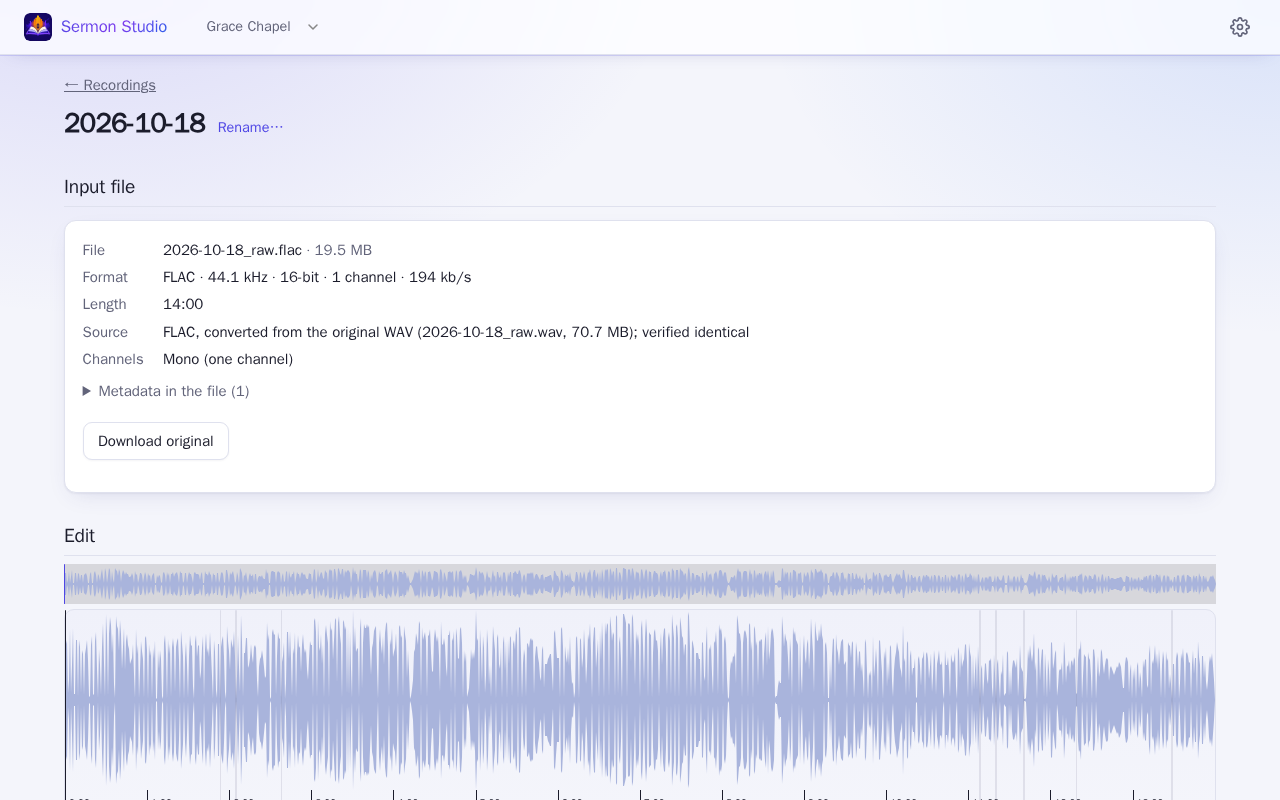
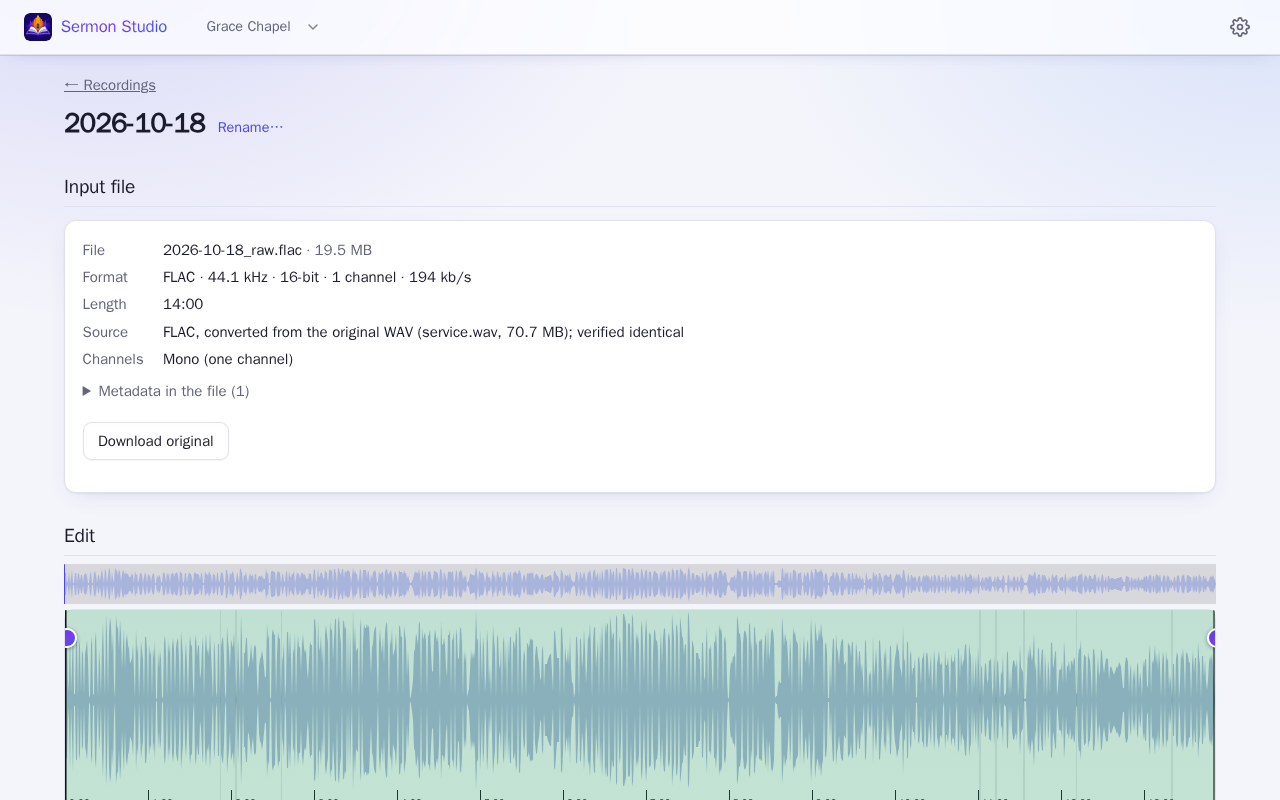
A recording not cut yet opens with the sermon set to all of it but the silence at the ends (#29)
* A recording not cut yet opens with the sermon set to all of it but the silence at the ends

The editor used to open an uncut recording with nothing selected. Now the one
section is there from the start: from the end of the silence at the beginning
of the recording to the start of the silence at its end (or the whole recording
when there is none). It is only a start: nothing is kept in recording.json
until something is changed, and Save right away saves it as it is. The hint
under the Sermon buttons says what it is until then.

Tests: a fixture with silence before and after a minute of speech; the browser
tests clear the start so they make their own sections; the phone test shows it.
The guide's first editor picture shows it too.

* Any change adopts the start the page made, so it is kept from then on

A change that left the section as it was (adding one over it) cleared the
start without keeping it, so Save had nothing to save. Now any change, and
Save, adopt it: the next keep sends it whatever it looks like.

The browser tests scroll back to the top after removing the start: the click
scrolls, and the mouse drags on the waveform need it on screen.

---------

Changed region(s): [[0.0312, 0.75, 0.9688, 1.0], [0.3125, 0.4062, 0.5938, 0.4375]]

diff --git a/web/e2e/tests/web.spec.js b/web/e2e/tests/web.spec.js
@@ -17,12 +17,25 @@ function forget(folder) {
 }
 
 // openEditor opens a date folder and waits until the waveform is ready. The
-// saved sections and cuts of an earlier test are forgotten, unless keep is set.
+// saved sections and cuts of an earlier test are forgotten, unless keep is set,
+// and the section the editor starts an uncut recording with is removed: the tests make their own.
 async function openEditor(page, folder, { timeout = 60_000, keep = false } = {}) {
   if (!keep) forget(folder);
   await page.goto('#/folder/' + folder);
   await expect(page.locator('#waveform')).toBeVisible({ timeout });
   await page.waitForFunction(() => window.__editor && window.__editor.ws.getDuration() > 0, null, { timeout });
+  if (!keep) await clearProposed(page, timeout);
+}
+
+// sectionHint is the line under the Sermon buttons; it is set once the waveform is ready.
+const sectionHint = (page) => page.locator('.section-hint');
+async function clearProposed(page, timeout = 60_000) {
+  await expect(sectionHint(page)).not.toHaveText('', { timeout });
+  if ((await sectionHint(page).textContent()).startsWith('The sermon is set to')) {
+    await page.locator('.section').getByRole('button', { name: 'Remove' }).click();
+    await expect(sectionHint(page)).toContainText('Drag on the waveform to select the sermon');
+    await page.evaluate(() => window.scrollTo(0, 0)); // the click scrolled; the waveform must be on screen for the mouse
+  }
 }
 
 const editor = (page, fn, arg) => page.evaluate(fn, arg);
@@ -346,6 +359,49 @@ test('recording.json keeps the adjustments; Save makes them the saved version, R
   await expect(fadeKnob(page, 'fadeIn')).toHaveAttribute('aria-valuenow', '2');
   expect(read().adjusted).toBeNull();
   await expect(page.getByRole('button', { name: 'Revert…' })).toBeDisabled();
+});
+
+test('a recording not cut yet starts with the sermon set to all of it but the silence at the ends', async ({ page }) => {
+  const folder = '2026/2026-06-14'; // a minute: silence, speech from 3 to 56 s, silence
+  const file = path.join(DATA, 'root', folder, 'recording.json');
+  const read = () => (fs.existsSync(file) ? JSON.parse(fs.readFileSync(file, 'utf8')) : {});
+  forget(folder);
+  await page.goto('#/folder/' + folder);
+  await expect(page.locator('#waveform')).toBeVisible({ timeout: 60_000 });
+  await expect(sectionHint(page)).toContainText('The sermon is set to the recording without the silence at its start and end.', { timeout: 60_000 });
+  const start = await selection(page);
+  expect(start.start).toBeGreaterThan(2.5);
+  expect(start.start).toBeLessThan(3.6);
+  expect(start.end).toBeGreaterThan(55.4);
+  expect(start.end).toBeLessThan(56.5);
+  await expect(page.getByText('Nothing is saved yet.')).toBeVisible();
+  await expect(page.getByText('Save keeps the edit, makes: FLAC, MP3, Opus.')).toBeVisible();
+
+  // It is only a start: nothing is kept until something is changed.
+  await page.waitForTimeout(1500);
+  expect(read().adjusted ?? null).toBeNull();
+  await page.getByLabel('Sermon from').fill('5');
+  await page.getByLabel('Sermon from').press('Enter');
+  await expect(page.getByText('Changes kept.')).toBeVisible();
+  await expect(sectionHint(page)).toContainText('Drag on an empty part of the waveform');
+  expect(read().adjusted.sections[0].start).toBe(5);
+
+  // Opened again, uncut: Save right away saves the start the page made.
+  forget(folder);
+  await page.reload();
+  await expect(sectionHint(page)).toContainText('The sermon is set to', { timeout: 60_000 });
+  for (const label of ['FLAC', 'MP3', 'Opus']) await pick(page, label).click();
+  await expect(page.getByText('Save keeps the edit.')).toBeVisible();
+  await page.getByRole('button', { name: 'Save', exact: true }).click();
+  await expect(page.getByText('Saved.', { exact: true })).toBeVisible();
+  expect(read().saved.sections[0].start).toBe(start.start);
+  await expect(sectionHint(page)).toContainText('Drag on an empty part of the waveform');
+
+  // With a saved version there is no start to make: it is what was saved.
+  await page.reload();
+  await page.waitForFunction(() => window.__editor && window.__editor.sections.length === 1, null, { timeout: 60_000 });
+  expect(await selection(page)).toEqual(start);
+  await expect(sectionHint(page)).toContainText('Drag on an empty part of the waveform');
 });
 
 // pill is a format's pill on the Output; pick is its button.

diff --git a/web/static/editor.js b/web/static/editor.js
@@ -98,7 +98,7 @@ export async function editorView(view, path, config) {
   const waveSection = h('section', {});
   const lengthOut = h('p', { class: 'length' });
   const sectionList = h('div', { class: 'sections' });
-  const sectionHint = h('p', { class: 'muted' });
+  const sectionHint = h('p', { class: 'muted section-hint' });
   const cutList = h('div', { class: 'cuts' });
   const cutHint = h('p', { class: 'muted' });
   const inputPanel = h('div', { class: 'panel input-file' });
@@ -389,7 +389,7 @@ export async function editorView(view, path, config) {
       regions.enableDragSelection({ color: css('--selection') });
       const initial = sermon.adjusted || sermon.saved;
       if (initial) applySettings(initial);
-      else renderSections();
+      else proposeSection(data.silences);
     });
     buildFades();
     // A drag on the waveform makes a region: it becomes a section. Sections
@@ -570,6 +570,34 @@ export async function editorView(view, path, config) {
     }
   }
 
+  // ---- the first section: a recording not cut yet opens with the sermon set to all of it but the
+  // silence at its start and end. It is only a start: nothing is kept until something is changed. ----
+
+  let proposed = false; // the one section is that start, untouched
+  function proposeSection(silences) {
+    const lead = silences.find((s) => s.start <= 0.5);
+    const tail = [...silences].reverse().find((s) => s.end >= duration - 0.5);
+    const start = lead ? lead.end : 0, end = tail ? tail.start : duration;
+    restoring = true;
+    try {
+      if (end - start >= 1) addSection(start, end);
+    } finally {
+      restoring = false;
+    }
+    proposed = sections.length > 0;
+    lastSent = JSON.stringify(currentSettings());
+    renderSections();
+    check();
+  }
+
+  // adopt makes that start the user's own: from here on it is kept like any edit, even when a change
+  // leaves it as it was.
+  function adopt() {
+    proposed = false;
+    lastSent = '';
+    syncSections();
+  }
+
   // ---- sections: the parts of the recording that make the sermon ----
 
   // rebuild replaces a list's rows. Removing a focused field makes the browser
@@ -725,9 +753,11 @@ export async function editorView(view, path, config) {
       if (document.activeElement !== x.endIn) x.endIn.value = formatTime(r.end);
       x.info.textContent = t('length {time}', { time: formatTime(r.end - r.start, 1) });
     }
-    sectionHint.textContent = sections.length
-      ? t('Drag on an empty part of the waveform to add another section. Parts between sections are left out.')
-      : t('Drag on the waveform to select the sermon, or set its start and end at the playhead (s, e).');
+    sectionHint.textContent = !sections.length
+      ? t('Drag on the waveform to select the sermon, or set its start and end at the playhead (s, e).')
+      : proposed
+        ? t('The sermon is set to the recording without the silence at its start and end. Move its edges, or set its start and end at the playhead (s, e).')
+        : t('Drag on an empty part of the waveform to add another section. Parts between sections are left out.');
   }
 
   // skipped are the parts left out between the first section's start and the
@@ -1200,6 +1230,7 @@ export async function editorView(view, path, config) {
   }, 250);
 
   function changed() {
+    if (proposed && !restoring) adopt();
     saveOptions(opts);
     check();
     saveSoon();
@@ -1264,6 +1295,7 @@ export async function editorView(view, path, config) {
   // missing or out of date. The edit is saved even when the files cannot be
   // made now: the recordings page shows them as out of date.
   async function save() {
+    if (proposed) adopt(); // the start the page made has not been kept yet
     await persistAdjusted();
     const make = toMake(), del = toDelete();
     const replaced = make.map(outputState).filter((x) => x.file).map((x) => x.file.name);

diff --git a/web/e2e/guide/guide.spec.js b/web/e2e/guide/guide.spec.js
@@ -23,12 +23,23 @@ async function openEditor(page, folder) {
   await expect(page.locator('#waveform')).toBeVisible({ timeout: 120_000 });
   await page.waitForFunction(() => window.__editor && window.__editor.ws.getDuration() > 0, null, { timeout: 120_000 });
 }
+// clearProposed removes the section the editor starts an uncut recording with, so the guide's own sections are made next.
+const sectionHint = (page) => page.locator('.section-hint');
+async function clearProposed(page) {
+  await expect(sectionHint(page)).not.toHaveText('', { timeout: 120_000 });
+  if ((await sectionHint(page).textContent()).startsWith('The sermon is set to')) {
+    await page.locator('.section').getByRole('button', { name: 'Remove' }).click();
+    await expect(sectionHint(page)).toContainText('Drag on the waveform to select the sermon');
+    await page.evaluate(() => window.scrollTo(0, 0)); // the click scrolled; the waveform must be on screen for the mouse
+  }
+}
 
 test.describe.configure({ mode: 'serial' });
 
 test('earlier Sundays: three are done, the rest wait', async ({ page }) => {
   for (const day of ['2026-09-06', '2026-09-13', '2026-09-20']) {
     await openEditor(page, `2026/${day}`);
+    await clearProposed(page);
     await editor(page, () => window.__editor.addSection(8, 112));
     await save(page).click();
     await expect(page.getByRole('heading', { name: 'Done' })).toBeVisible({ timeout: 120_000 });
@@ -55,9 +66,11 @@ test('upload, cut, save', async ({ page }) => {
   await page.waitForFunction(() => window.__editor && window.__editor.ws.getDuration() > 0, null, { timeout: 300_000 });
   await expect(page.locator('.input-file')).not.toContainText('Reading', { timeout: 120_000 });
   await expect(page.locator('.input-file')).not.toContainText('Checking', { timeout: 120_000 });
+  await expect(sectionHint(page)).toContainText('The sermon is set to', { timeout: 120_000 });
   await shot(page, '03-editor');
 
   // Two sections, with what is between them left out, and a cough cut out of the second.
+  await clearProposed(page);
   await editor(page, () => {
     window.__editor.addSection(6, 250, 'Part one');
     window.__editor.addSection(298, 832, 'Part two');

diff --git a/web/static/locales.js b/web/static/locales.js
@@ -145,6 +145,7 @@ export const nb = {
   "length {time}": "lengde {time}",
   "Drag on an empty part of the waveform to add another section. Parts between sections are left out.": "Dra på en tom del av bølgeformen for å legge til en ny del. Det som er mellom delene blir utelatt.",
   "Drag on the waveform to select the sermon, or set its start and end at the playhead (s, e).": "Dra på bølgeformen for å velge prekenen, eller sett start og slutt ved avspillingsmarkøren (s, e).",
+  "The sermon is set to the recording without the silence at its start and end. Move its edges, or set its start and end at the playhead (s, e).": "Prekenen er satt til opptaket uten stillheten i starten og slutten. Flytt kantene, eller sett start og slutt ved avspillingsmarkøren (s, e).",
   "Cut {n} from": "Utklipp {n} fra",
   "Cut {n} to": "Utklipp {n} til",
   "Cut {n}": "Utklipp {n}",
@@ -664,6 +665,7 @@ export const nn = {
   "length {time}": "lengd {time}",
   "Drag on an empty part of the waveform to add another section. Parts between sections are left out.": "Dra på ein tom del av bølgjeforma for å leggje til ein ny del. Det som er mellom delane blir utelate.",
   "Drag on the waveform to select the sermon, or set its start and end at the playhead (s, e).": "Dra på bølgjeforma for å velje preika, eller set start og slutt ved avspelingsmarkøren (s, e).",
+  "The sermon is set to the recording without the silence at its start and end. Move its edges, or set its start and end at the playhead (s, e).": "Preika er sett til opptaket utan stilla i starten og slutten. Flytt kantane, eller set start og slutt ved avspelingsmarkøren (s, e).",
   "Cut {n} from": "Utklipp {n} frå",
   "Cut {n} to": "Utklipp {n} til",
   "Cut {n}": "Utklipp {n}",

diff --git a/web/e2e/tests/phone.spec.js b/web/e2e/tests/phone.spec.js
@@ -36,7 +36,12 @@ test('phone: the editor by touch', async ({ page }) => {
   fs.rmSync(path.join(DATA, 'root/2026/2026-10-04/recording.json'), { force: true });
   await page.goto('#/folder/2026/2026-10-04');
   await page.waitForFunction(() => window.__editor && window.__editor.ws.getDuration() > 0, null, { timeout: 60_000 });
-  await fits(page, 'editor-empty');
+  // The editor starts with the sermon set to the whole recording (it has no silence at the ends).
+  await expect(page.getByText('The sermon is set to the recording without the silence')).toBeVisible({ timeout: 60_000 });
+  await fits(page, 'editor-opened');
+  await page.locator('.section').getByRole('button', { name: 'Remove' }).tap();
+  await expect.poll(() => page.evaluate(() => window.__editor.sections.length)).toBe(0);
+  await page.evaluate(() => window.scrollTo(0, 0)); // the tap scrolled; the waveform must not sit under the header
 
   // A finger drag on the waveform selects the sermon.
   const box = await page.locator('#waveform').boundingBox();

diff --git a/docs/guide.md b/docs/guide.md
@@ -29,7 +29,7 @@ saved with files. The search finds names, dates and labels.
 Drop a file on the top of the page or choose one; the date is taken from the file name or the file. The
 upload goes straight into its date folder and opens in the editor.
 
-![The editor: the whole service as a waveform](img/03-editor.png)
+![The editor: the whole service as a waveform, the sermon set to all of it but the silence at the ends](img/03-editor.png)
 
 ## Cutting: sections and cuts
 
@@ -60,8 +60,10 @@ Each can have a label, which shows on the waveform.
 - **Editor:** the whole service as a waveform with a minimap overview, like Audacity or
   ocenaudio. The controls are in three groups. **Navigate:** play, jump between silences
   (grey on the waveform), zoom (slider, `+`/`-`, or scroll over the waveform: zooms at the
-  mouse; shift+scroll moves along; *Settings › Waveform* can make it need ctrl/cmd). **Sermon:** drag on the waveform
-  to select the sermon and drag the edges to adjust, or set the start and end at the playhead;
+  mouse; shift+scroll moves along; *Settings › Waveform* can make it need ctrl/cmd). **Sermon:** a recording
+  not cut yet opens with the sermon set to all of it but the silence at its start and end (only a start: nothing
+  is kept until something is changed); drag the edges to adjust, set the start and end at the playhead, or drag on
+  the waveform to select another part;
   *Hear start*, *Hear end* and *Hear the whole sermon* (in Navigate) check the cut as it will be published. The from/to fields follow the
   selection and can be typed in (`h:mm:ss`, `mm:ss` or seconds, with decimals if needed).
   The sermon can be **several sections** (below). **Cut out:** parts of the sermon that should
